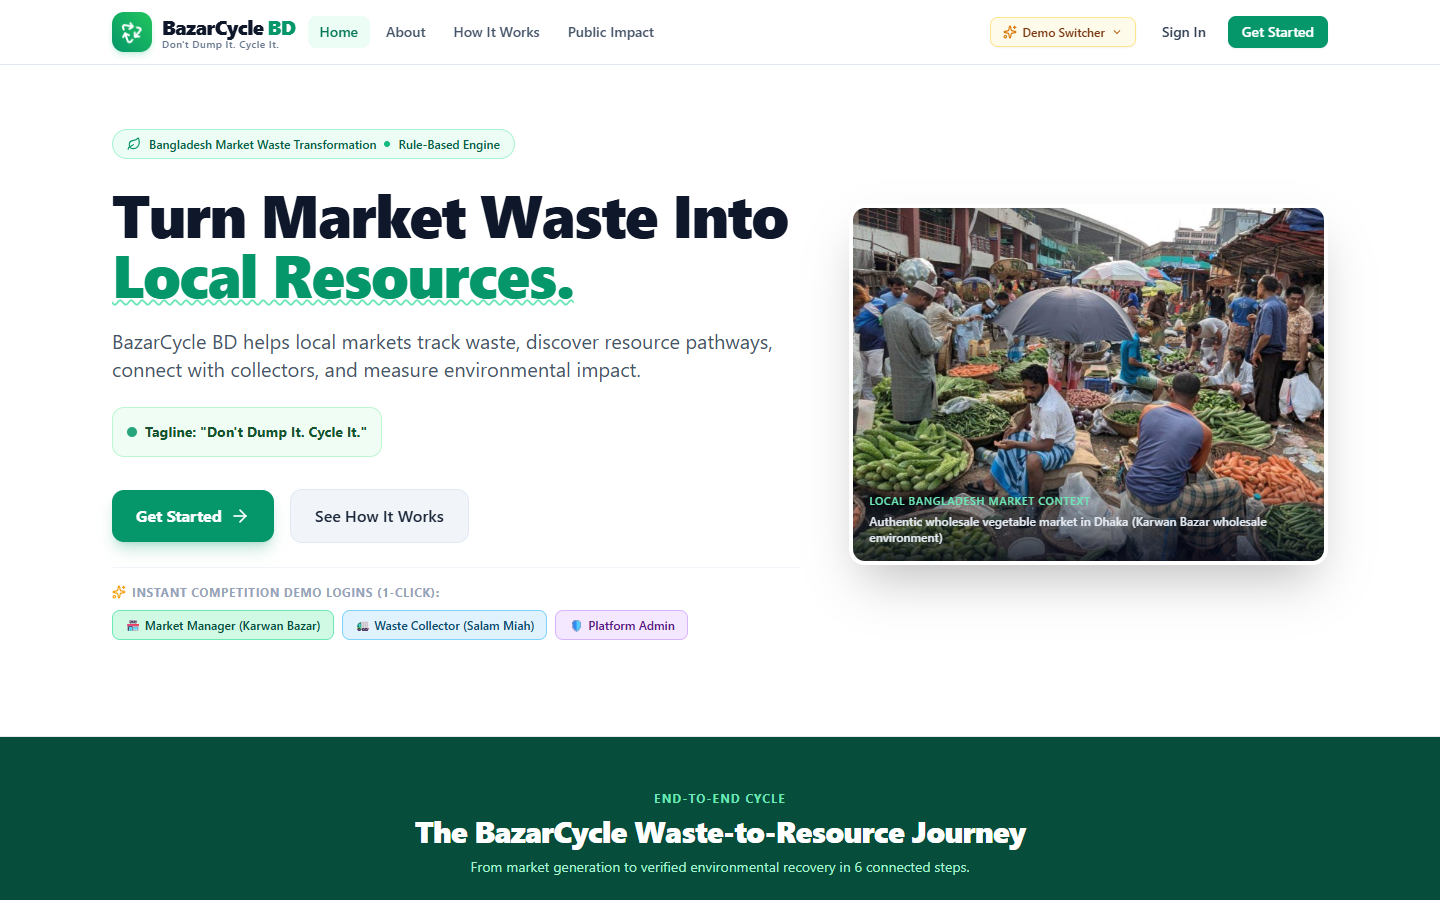
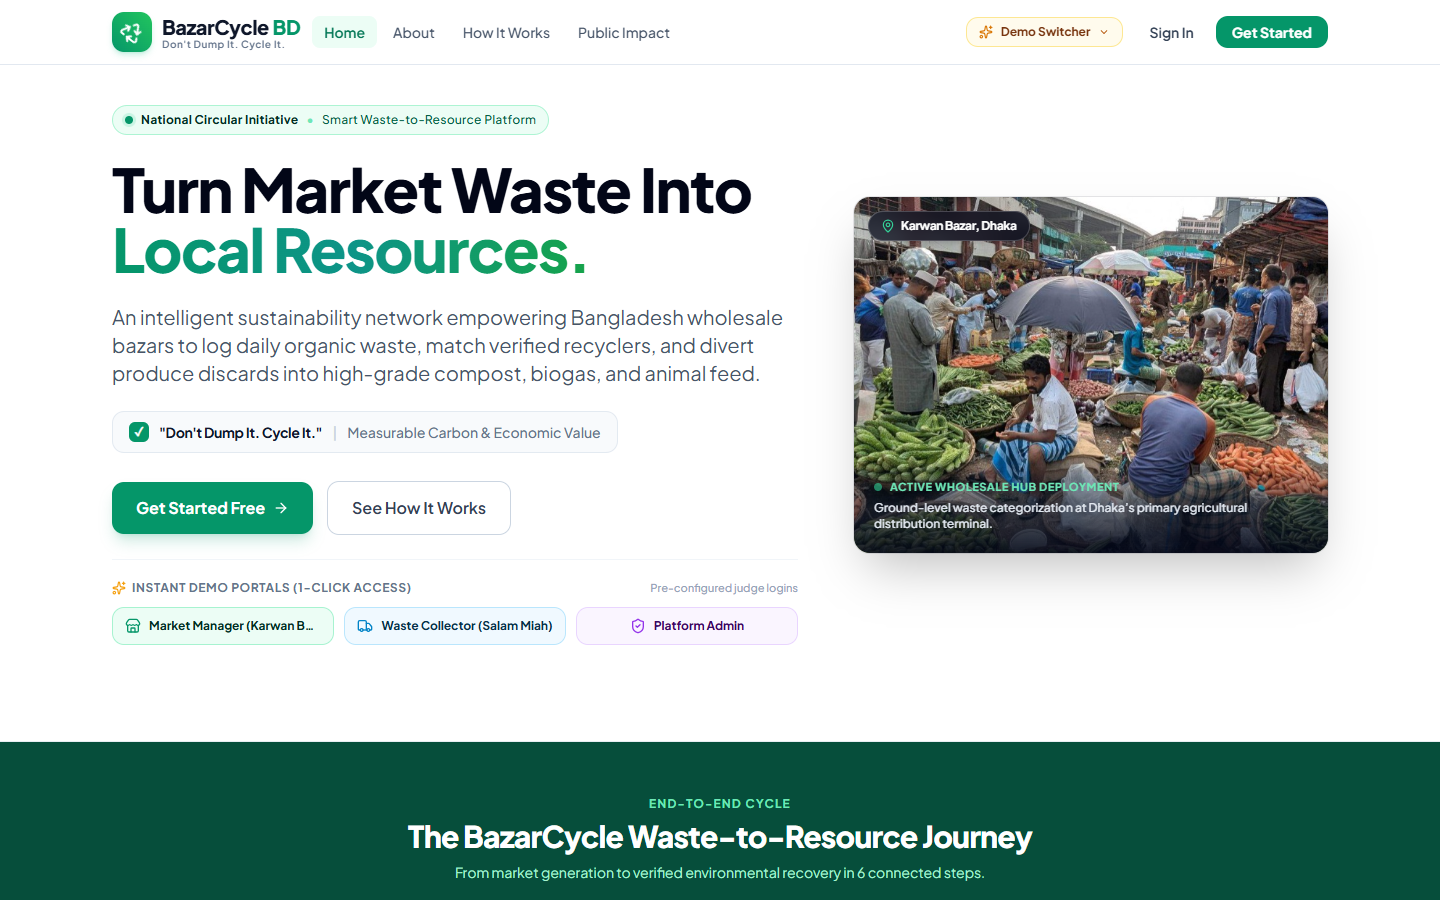
docs: update desktop and mobile hero screenshots in README with modern UI

diff --git a/frontend/src/pages/public/LandingPage.jsx b/frontend/src/pages/public/LandingPage.jsx
@@ -77,37 +77,37 @@ export default function LandingPage() {
             {/* Left Content */}
             <div className="lg:col-span-7 space-y-6">
               {/* Modern Live Pill Badge */}
-              <div className="inline-flex items-center space-x-2.5 px-3.5 py-1.5 rounded-full bg-emerald-50 border border-emerald-200/90 text-emerald-900 text-xs font-semibold tracking-wide shadow-xs">
-                <span className="flex h-2 w-2 relative">
+              <div className="inline-flex items-center space-x-2 px-3 py-1.5 rounded-full bg-emerald-50 border border-emerald-200/90 text-emerald-900 text-xs font-semibold tracking-wide shadow-xs max-w-full">
+                <span className="flex h-2 w-2 relative shrink-0">
                   <span className="animate-ping absolute inline-flex h-full w-full rounded-full bg-emerald-400 opacity-75"></span>
                   <span className="relative inline-flex rounded-full h-2 w-2 bg-emerald-600"></span>
                 </span>
-                <span className="font-bold text-emerald-950">National Circular Initiative</span>
-                <span className="text-emerald-300">•</span>
-                <span className="text-emerald-800 font-medium">Smart Waste-to-Resource Platform</span>
+                <span className="font-bold text-emerald-950 truncate">National Circular Initiative</span>
+                <span className="hidden md:inline text-emerald-300">•</span>
+                <span className="hidden md:inline text-emerald-800 font-medium">Smart Waste-to-Resource Platform</span>
               </div>
 
               {/* Polished Main Heading */}
-              <h1 className="text-4xl sm:text-5xl lg:text-6xl font-extrabold text-slate-950 tracking-tight leading-[1.12]">
+              <h1 className="text-2xl sm:text-4xl lg:text-6xl font-extrabold text-slate-950 tracking-tight leading-tight sm:leading-[1.12]">
                 Turn Market Waste Into{' '}
-                <span className="bg-gradient-to-r from-emerald-600 via-teal-600 to-forest-600 bg-clip-text text-transparent">
-                  Valuable Local Resources.
+                <span className="bg-gradient-to-r from-emerald-600 via-teal-600 to-forest-600 bg-clip-text text-transparent block sm:inline">
+                  Local Resources.
                 </span>
               </h1>
 
               {/* Refined Descriptive Copy */}
-              <p className="text-lg sm:text-xl text-slate-600 leading-relaxed max-w-2xl font-normal">
+              <p className="text-sm sm:text-lg lg:text-xl text-slate-600 leading-relaxed max-w-2xl font-normal">
                 An intelligent sustainability network empowering Bangladesh wholesale bazars to log daily organic waste, match verified recyclers, and divert produce discards into high-grade compost, biogas, and animal feed.
               </p>
 
               {/* High-End Slogan Pill */}
-              <div className="flex items-center space-x-3 text-sm font-semibold text-slate-700 bg-slate-50 border border-slate-200/90 rounded-xl px-4 py-2.5 w-fit shadow-xs">
-                <div className="flex items-center justify-center w-5 h-5 rounded-md bg-emerald-600 text-white font-bold text-xs shadow-xs">
+              <div className="flex items-center space-x-2.5 text-xs sm:text-sm font-semibold text-slate-700 bg-slate-50 border border-slate-200/90 rounded-xl px-3 sm:px-4 py-2 sm:py-2.5 w-fit max-w-full shadow-xs">
+                <div className="flex items-center justify-center w-4 h-4 sm:w-5 sm:h-5 rounded-md bg-emerald-600 text-white font-bold text-[10px] sm:text-xs shadow-xs shrink-0">
                   ✓
                 </div>
                 <span className="text-slate-900 font-bold tracking-tight">"Don't Dump It. Cycle It."</span>
-                <span className="text-slate-300">|</span>
-                <span className="text-slate-500 font-medium text-xs sm:text-sm">Measurable Carbon & Economic Value</span>
+                <span className="hidden sm:inline text-slate-300">|</span>
+                <span className="hidden sm:inline text-slate-500 font-medium">Measurable Carbon & Economic Value</span>
               </div>
 
               {/* Action Buttons */}
